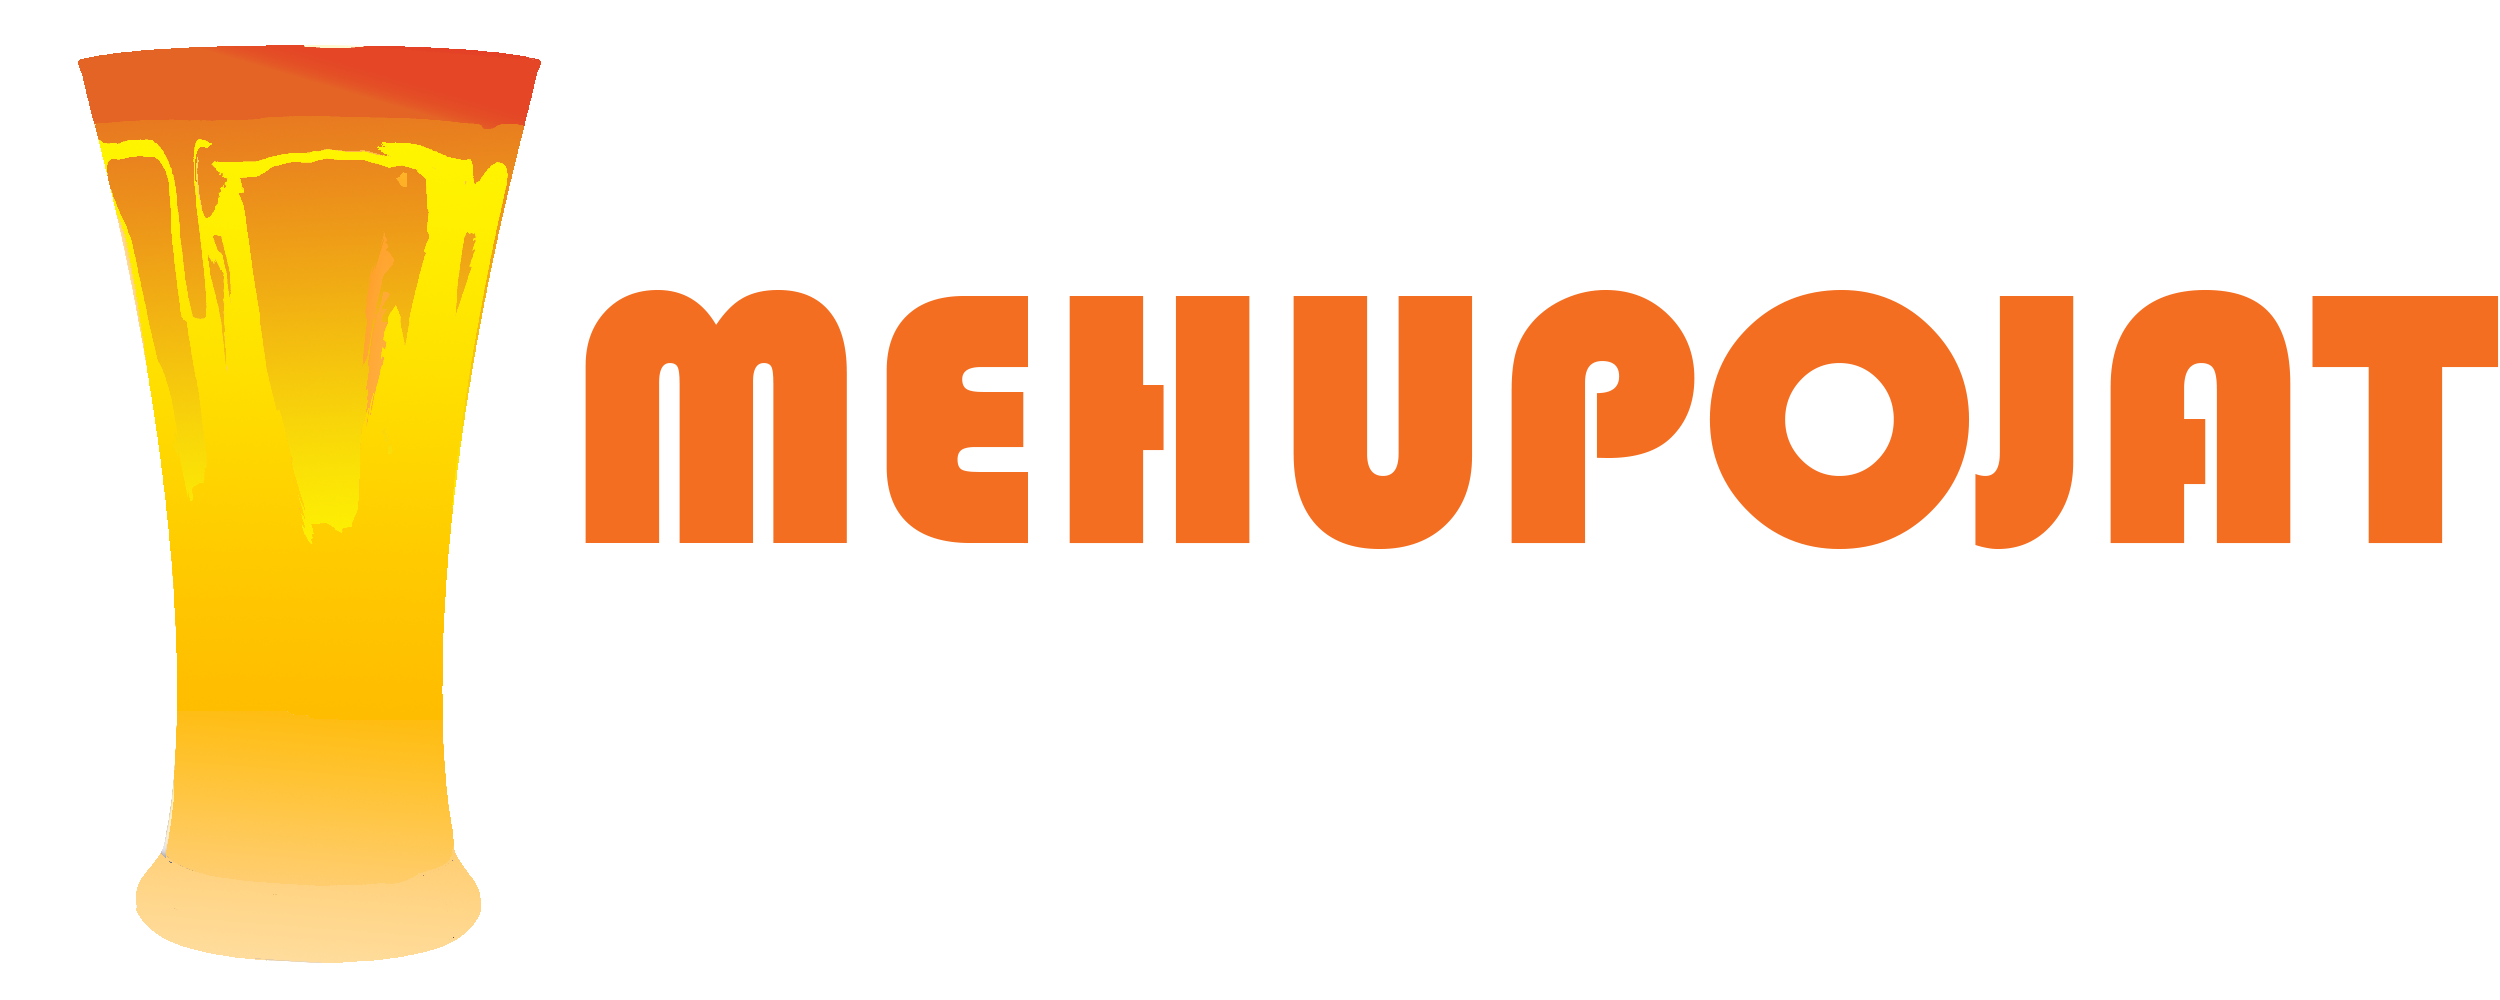
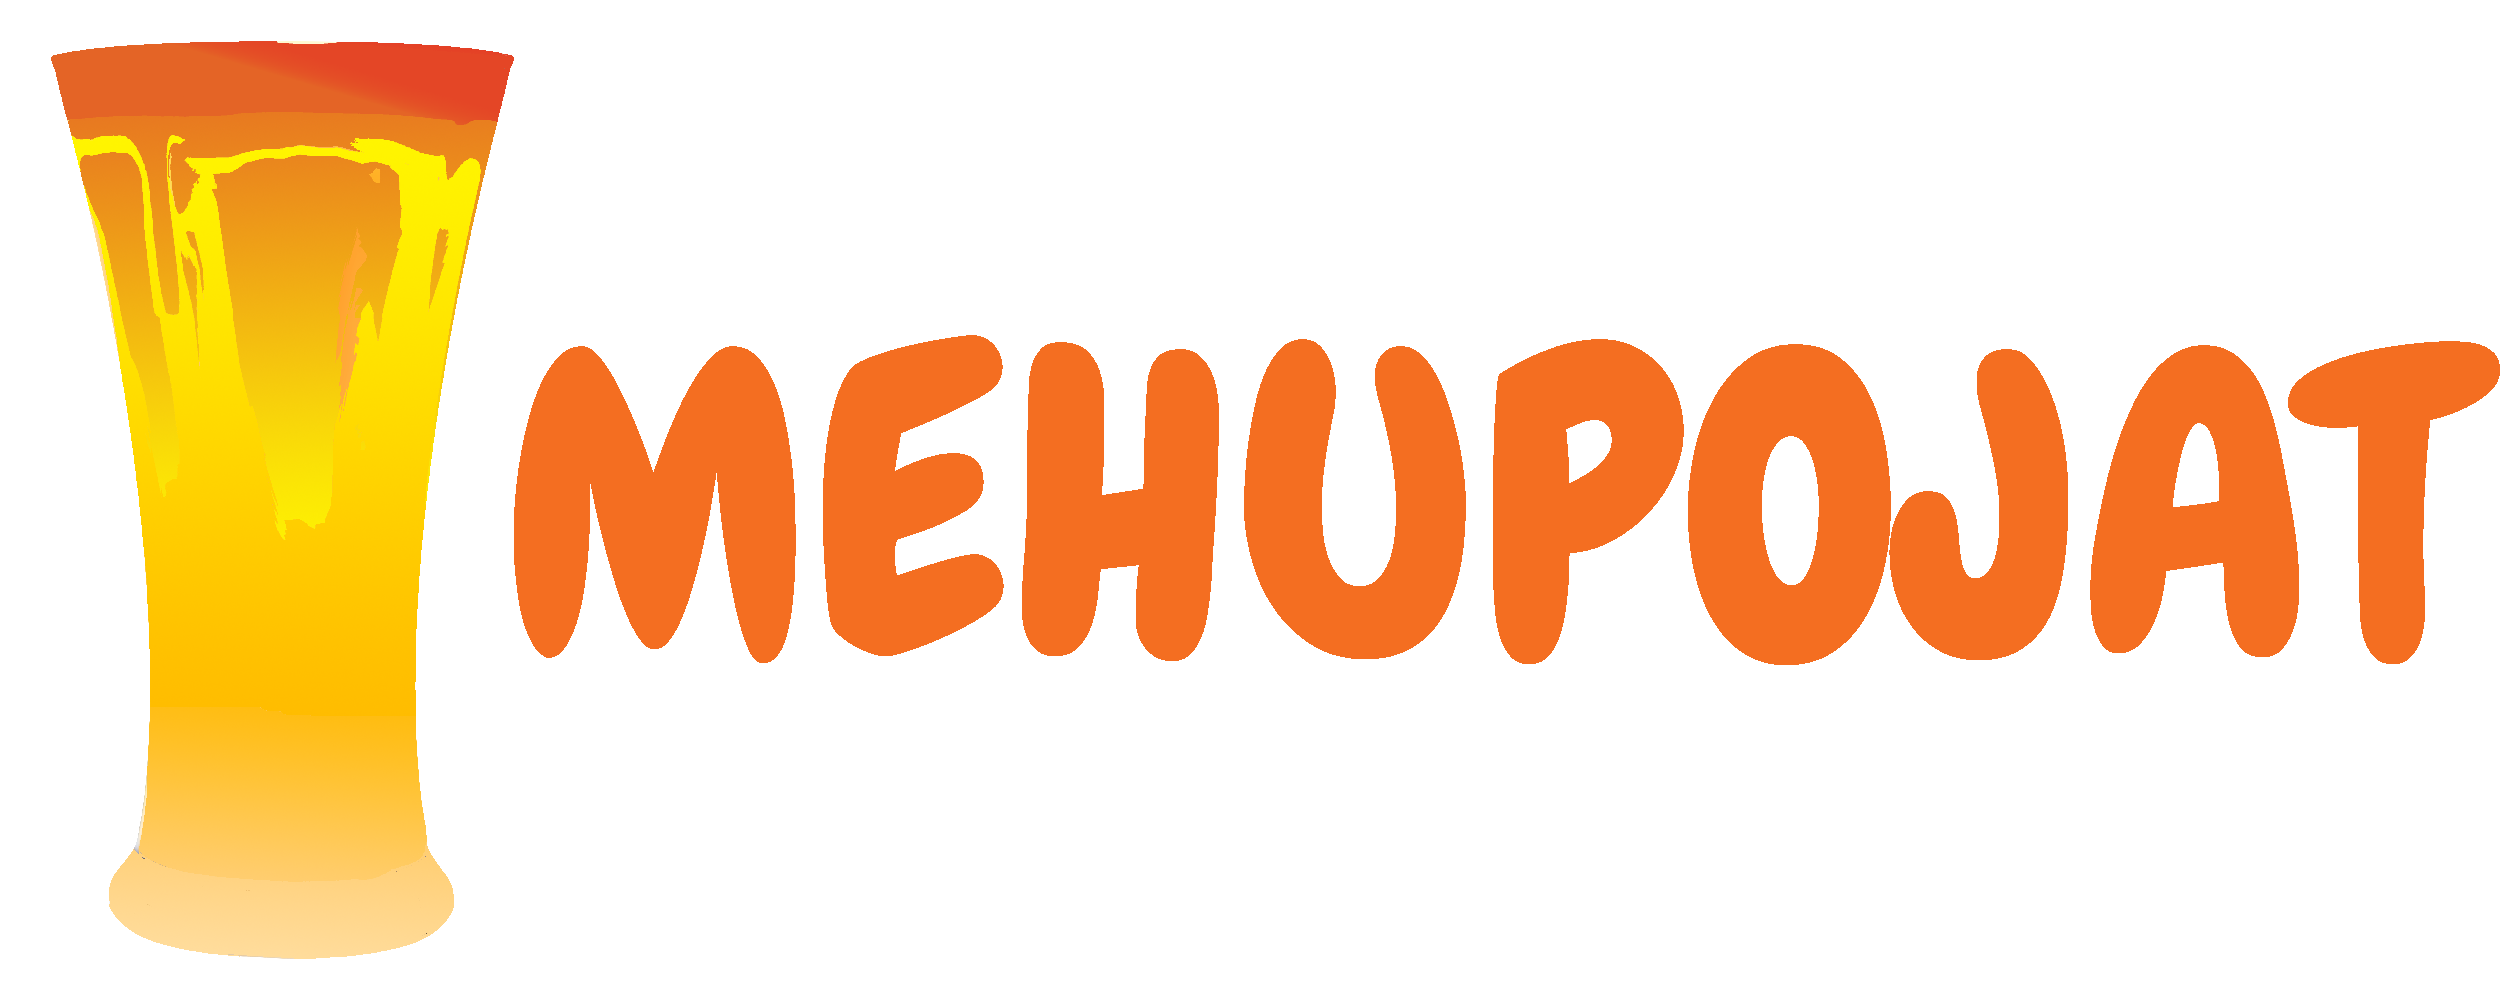
Modified the site appearance:     - Navigation font changed     - Color scheme refined     - Footer added to all sites

Changed region(s): [[0.0, 0.062, 1.0, 0.961], [0.0312, 0.031, 0.156, 0.062]]

diff --git a/Mehupojat/src/main/webapp/resources/css/index.css b/Mehupojat/src/main/webapp/resources/css/index.css
@@ -8,53 +8,61 @@ img {
     src: url('../fonts/Unicorn.otf'); 
 } 
 
-button {
+
+.btn {
+    /* Override boostrap default styling for shopping cart buttons */
     background-color: #f46e21 !important;
     border-color: #f46e21 !important;
 }
 
-button:hover {
-    background-color: #8cbb7c !important;
-    border-color: #8cbb7c !important;
+.btn:hover {
+    /* Override boostrap default styling for shopping cart buttons */
+    background-color: #ff823a !important;
+    border-color: #ff823a !important;
 }
 
 
 .productsLink {
     color: #f46e21;
-    font-family: 'Unicorn';
-    font-size: 24px;
+    font-family: 'Chewy', cursive;
+    font-size: 28px;
     line-height: 40px;
-    margin: 0px 20px; 
+    margin: 28px 20px 0px 20px; 
     display: inline-block;
+    position: absolute;
 }
 
 .productsLink:hover {
-    color: #8cbb7c;
+    color: #ff823a;
 }
 
 #pagenameLink { 
     margin: 8px 20px; 
     display: inline-block;
+    border-style: dashed;
+    padding-right: 20px;
+    border-width: 0px 1px 0px 0px;
+    border-color: #ff823a;
 }
 
 #login {
     color: #f46e21;
-    font-family: 'Unicorn';
-    font-size: 24px;
+    font-family: 'Chewy', cursive;
+    font-size: 28px;
     line-height: 40px;
     margin: 0px 20px; 
     display: inline-block;
     float: right;
-    margin-top: 26px;
+    margin-top: 28px;
 }
 
 #login:hover {
-    color: #8cbb7c;
+    color: #ff823a;
 }
 
 #wrapper {
     min-height: 100%;
-    min-width: 540px;
+    min-width: 640px;
     position: relative;
 }
 
@@ -93,7 +101,7 @@ button:hover {
 }
 
 .hero-text h1 {
-    color: #f46e21;
+    color: #68bc4b;
     font-family: 'Unicorn';
     font-size: 72px;
     width: 550px;

diff --git a/Mehupojat/src/main/webapp/resources/css/login.css b/Mehupojat/src/main/webapp/resources/css/login.css
@@ -10,31 +10,35 @@ body {
 @font-face { 
     font-family: Unicorn; 
     src: url('../fonts/Unicorn.otf'); 
-} 
+}
 
 .productsLink {
-
     color: #f46e21;
-    font-family: 'Unicorn';
-    font-size: 24px;
+    font-family: 'Chewy', cursive;
+    font-size: 28px;
     line-height: 40px;
-    margin: 0px 20px; 
+    margin: 28px 20px 0px 20px; 
     display: inline-block;
+    position: absolute;
 }
 
 .productsLink:hover {
-    color: #8cbb7c;
+    color: #ff823a;
 }
 
 #wrapper {
     min-height: 100%;
-    min-width: 540px;
+    min-width: 640px;
     position: relative;
 }
 
 #pagenameLink { 
     margin: 8px 20px; 
     display: inline-block;
+    border-style: dashed;
+    padding-right: 20px;
+    border-width: 0px 1px 0px 0px;
+    border-color: #ff823a;
 }
 
 #headerbar {
@@ -45,6 +49,20 @@ body {
 
 h2 {
     font-size: 28px;
+}
+
+#footer {
+    background-color: #8cbb7c;
+    height: 100px;
+    width: 100%;
+    position:absolute;
+    bottom:0;
+    left:0;
+}
+
+#footer p {
+    color: #FFFFFF;
+    margin-top: 45px;
 }
 
 .form-signin {
